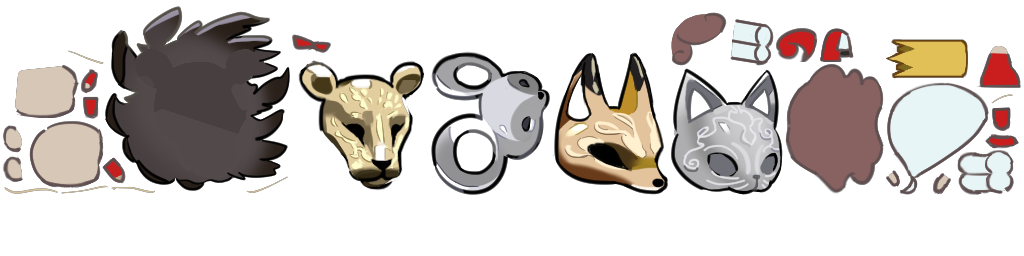
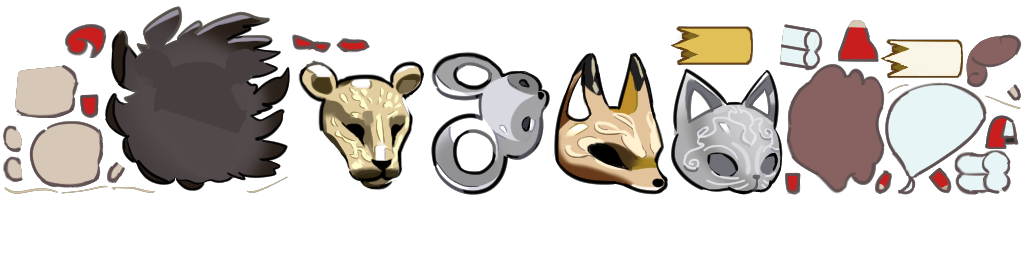
#feature 增加王冠动画

diff --git a/Assets/Scripts/Game/Chess/Chess.cs b/Assets/Scripts/Game/Chess/Chess.cs
@@ -37,6 +37,8 @@ namespace Game.GameChess {
 		public const string ANIME_SELECT = "select";
 		public const string ANIME_SWITCH = "switch";
 
+		public const string ANIME_SKILL = "skill";
+
 		private static readonly Dictionary<int, string> _maskMap = new Dictionary<int, string>()
 		{
 			{0, "mouse"},
@@ -370,6 +372,17 @@ namespace Game.GameChess {
 			});
 
 
+			_skeletonMachine.RegisterState(0, ANIME_SKILL, false)
+			.AddAnoAnimationEvent("skill", (track, e) => 
+			{	
+				EquipHat();
+			})
+			.AddAnoAnimationEvent("skill_SFX", (track, e) => 
+			{	
+				WwiseAudio.PlayEvent("Play_Doll_Skill_Cast_SFX", this.gameObject);
+			});
+
+
 			_skeletonMachine.AddTransition(ANIME_IDLE, ANIME_MOVE, () => _skeletonMachine.Trigger(ANIME_MOVE));
 			_skeletonMachine.AddTransition(ANIME_MOVE, ANIME_IDLE, () => !_skeletonMachine.Trigger(ANIME_MOVE));
 
@@ -380,9 +393,13 @@ namespace Game.GameChess {
 
 			_skeletonMachine.AddTransition(ANIME_IDLE, ANIME_SWITCH, () => _skeletonMachine.Trigger(ANIME_SWITCH));
 			_skeletonMachine.AddTransition(ANIME_SWITCH, ANIME_IDLE, () => !_skeletonMachine.Trigger(ANIME_SWITCH));
+
+			_skeletonMachine.AddTransition(ANIME_SELECT, ANIME_SKILL, () => _skeletonMachine.Trigger(ANIME_SKILL));
+			_skeletonMachine.AddTransition(ANIME_SKILL, ANIME_SELECT, () => !_skeletonMachine.Trigger(ANIME_SKILL));
 			
 			_skeletonMachine.SetDefault(ANIME_IDLE);
 			_skeletonMachine.StartMachine();
+			
 			UpdateMaskSkin();
 		}
 
@@ -443,6 +460,11 @@ namespace Game.GameChess {
 				_skeletonAnimation.AnimationState.Apply(_skeletonAnimation.Skeleton);
 				_skeletonAnimation.Update(0);
 			}
+		}
+
+		public void OnSkill()
+		{
+			_skeletonMachine.InvokeTrigger(ANIME_SKILL);
 		}
 
 		public void EquipHat()

diff --git a/Assets/Scripts/Game/Scene/MouseInteractSystem.cs b/Assets/Scripts/Game/Scene/MouseInteractSystem.cs
@@ -129,7 +129,10 @@ namespace Game
 			// 有选中棋子，尝试交换面具（仅友方）
 			if (IsFriendly(_selectedChess, clickedChess))
 			{
-				SwapMasks(_selectedChess, clickedChess);
+				if (!_selectedChess.ChessMask.IsKing)
+				{
+					SwapMasks(_selectedChess, clickedChess);
+				}
 
 				// 如果当前悬浮的棋子是交换的任意一方，刷新高亮
 				if (_hoveredChess == _selectedChess || _hoveredChess == clickedChess)
@@ -339,10 +342,8 @@ namespace Game
 			if (chess == null || chess.ChessMask == null) return;
 			
 			chess.ChessMask.IsKing = true;
-			chess.EquipHat();
+			chess.OnSkill();
 			chess.UpdateMaskSkin(); // 更新皮肤显示
-			
-			WwiseAudio.PlayEvent("Play_Doll_Skill_Cast_SFX", chess.gameObject);
 		}
 
 		private void CancelSkillToChess(Chess chess)
